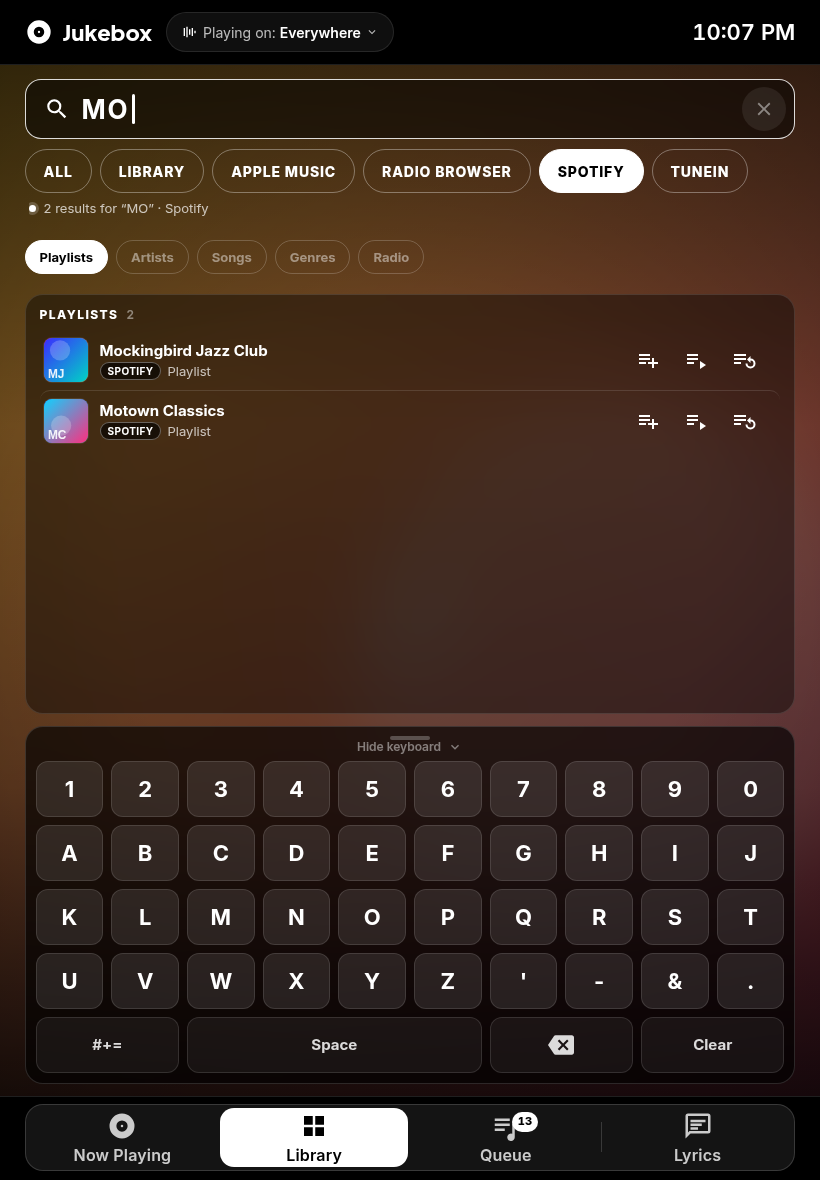
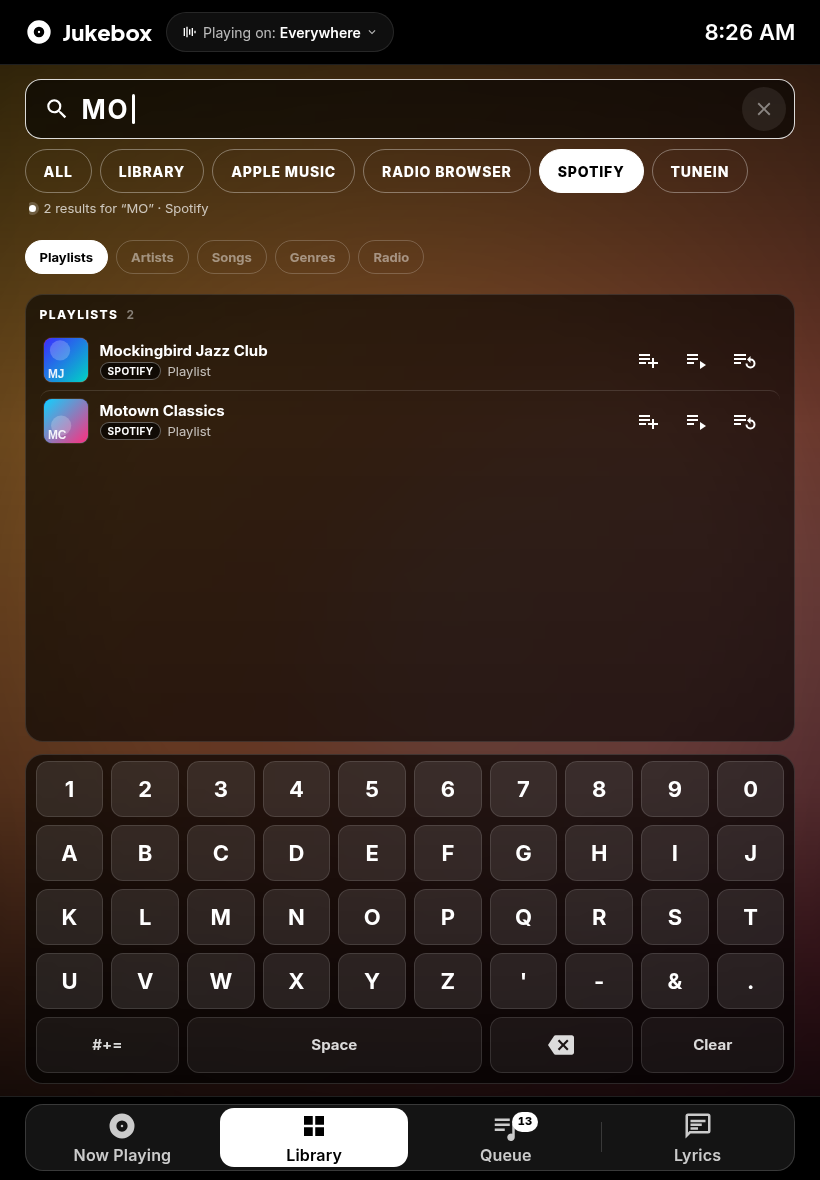
docs: 0.7.3 README, changelog, and Library screenshots
The always-open Library keyboard belongs in 0.7.3, not the shipped
0.7.2 notes. README drops the draft banner and retags library_keyboard.
CHANGELOG records that behavior and the short-landscape keyboard fix.
Library screenshots are retaken with the keyboard open and no hide handle.
Version files stay at 0.7.2.

Changed region(s): [[0.0305, 0.5797, 0.9756, 0.6407], [0.8537, 0.0, 0.9451, 0.0305]]

diff --git a/README.md b/README.md
@@ -1,6 +1,4 @@
-# Jukebox Kiosk (`ha-jukebox-kiosk`) 0.7.2 — DRAFT
-
-> **Draft for 0.6.0.** This README covers the new integration and the card bundled in it. Sections marked *(legacy)* describe the `mass_queue` backend, which still works.
+# Jukebox Kiosk (`ha-jukebox-kiosk`) 0.7.3
 
 Jukebox Kiosk is a Home Assistant integration that ships the **Jukebox Card**, a Lovelace card for a Home Assistant + Music Assistant jukebox kiosk. It also gives the card its own WebSocket API to Music Assistant, so the card no longer needs [mass_queue](https://github.com/droans/mass_queue).
 
@@ -13,7 +11,7 @@ The card's element is still `custom:jukebox-card`, so existing dashboards keep w
 
 ## Screenshots
 
-*(0.7.2)* **One Library tab for browsing and searching.** A search box with the on-screen keyboard sits on top, with a row of source buttons right under it (All, Library, then your Music Assistant providers; tap several to combine them); Playlists, Artists, Songs, Genres and Radio sit under it. An empty box lists your library; typing searches that category, library first.
+*(0.7.3)* **One Library tab, keyboard always open.** The on-screen keyboard stays open on every screen size. The search box, source buttons (All, Library, then your Music Assistant providers; tap several to combine them), category buttons (Playlists, Artists, Songs, Genres and Radio) and the list are arranged around it. There is no Keyboard pill and no hide handle. An empty box lists your library; typing searches that category, library first.
 
 | Library (empty box) | Typing, source All |
 |---|---|
@@ -388,7 +386,7 @@ Entity ids in the [configuration example](#configuration) are examples. The defa
 | `hearts` | `true` | *(0.7)* A favourite heart on Search and Library rows and tiles, on playlist rows and on album, artist and playlist pages. See [Favourites (hearts)](#favourites-hearts). Needs the Jukebox Kiosk backend and the `library` class. `false` keeps the 0.6 hearts only (Search radio rows, the station sheet and Now Playing) |
 | `show_autoplay` | `false` | *(0.7)* Autoplay (Music Assistant "don't stop the music") toggle in the Queue header plus an indicator on Now Playing. Jukebox Kiosk backend, class `queue` |
 | `radio_favorites_only` | `false` | *(0.7)* Browse › Radio **My stations** lists favourite stations only. Default: favourites first, then the other library stations |
-| `library_keyboard` | `always` | *(0.7.2, combined Library tab)* `always`: the on-screen keyboard is always shown on every screen size. `tap`: optional fallback for small screens: in portrait and on phones the list shows first and tapping the search box opens the keyboard (landscape tablets keep it on the left either way) |
+| `library_keyboard` | `always` | *(0.7.3, combined Library tab)* `always`: the on-screen keyboard is always shown on every screen size. `tap`: optional fallback for small screens: in portrait and on phones the list shows first and tapping the search box opens the keyboard (landscape tablets keep it on the left either way) |
 | `library_layout` | `combined` | *(0.7.2)* `combined`: one Library tab with the search box, source buttons and category buttons (no Search tab). `separate`: the 0.7.1 Library + Search tabs |
 | `library_categories` | `[playlist, artist, track, genre, radio]` | *(0.7.2)* Category buttons in order; also `album`, `podcast`, `audiobook` |
 | `search_sources` | `true` | *(0.7.2)* The source buttons under the search box (All, Library, Music Assistant providers; multi-select). Jukebox Kiosk and mass_queue backends |

diff --git a/CHANGELOG.md b/CHANGELOG.md
@@ -2,6 +2,14 @@
 
 All notable changes to Jukebox Card. Versions follow [semver](https://semver.org/).
 
+## 0.7.3 — 2026-11-05
+
+### Added
+- **Keyboard always open on the Library tab.** The combined tab's on-screen keyboard is shown by default on every screen size (portrait tablets and phones included), with the search box, source buttons, category buttons, list and tab bar arranged around it; no Keyboard pill or hide handle. `library_keyboard: tap` (YAML only) restores the tap-to-open keyboard in portrait / on phones as a small-screen fallback.
+
+### Fixed
+- **The on-screen keyboard stays above the tab bar on short landscape screens.** At 1024×600 under the Home Assistant toolbar the Library keyboard ran under the tab bar (9 px, 21 px with `large_buttons`): the recents are hidden there, but their grid row and its gap were still taking space. That row is dropped, and with the source buttons on the keys are sized to the room left (36–46 px; they stay 46 px where there is room).
+
 ## 0.7.2 — 2026-11-04
 
 ### Changed
@@ -12,7 +20,6 @@ All notable changes to Jukebox Card. Versions follow [semver](https://semver.org
 - `library_home` defaults to `false` again and only applies with `library_layout: separate`; a 0.7.1 `library_home: true` gets the combined tab.
 
 ### Added
-- **Keyboard always open on the Library tab.** The combined tab's on-screen keyboard is shown by default on every screen size (portrait tablets and phones included), with the search box, source buttons, category buttons, list and tab bar arranged around it; no Keyboard pill or hide handle. `library_keyboard: tap` (YAML only) restores the tap-to-open keyboard in portrait / on phones as a small-screen fallback.
 - **Source buttons (`search_sources`, default `true`).** An always-visible row of touch-sized chips under the search box (no dropdown): All, Library, then the search-capable music providers configured in Music Assistant, by display name (new `jukebox_kiosk/search_providers` command, class `read`, served from the MA client's provider list; mass_queue backend: MA `providers`).
   - Multi-select: All by default; tapping a provider turns All off and selects it, more taps add providers, tapping a selected one removes it, none left = All again, tapping All clears them. Status and placeholder name the selection ("Apple Music + TuneIn").
   - The selected providers go together in `music/search`'s `providers`; Library alone = library only; Library plus providers = library first, then those providers. With an empty box, one provider shows its browse (or a hint); several show the inline hint to type.
